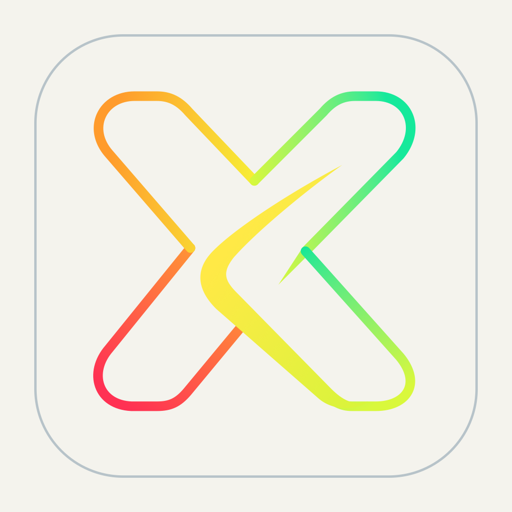
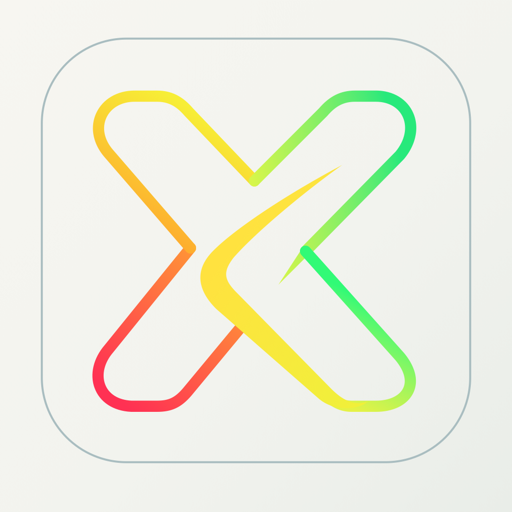
fix(brand): align progression X SVG with reference drafts

diff --git a/x-on-track-design/implementation.md b/x-on-track-design/implementation.md
@@ -4,6 +4,8 @@ The four unchanged supplied raster references are in `references/`. The SVG mast
 
 The canonical mark has five overlapping paths inside a 320 × 320 viewbox: four rounded outline segments and one filled, tapered diagonal sweep. The sweep is drawn last so its crossing remains continuous. The source drafts have small raster asymmetries, so this vector fixes one geometry for full, empty, partial, and unknown states. Gradients stay anchored to the full paths; only the progress mask's measured arc length changes. The generated static SVG adds a separate, subtle glow layer and border for large brand placements. Dynamic components omit that decorative glow to stay crisp at small sizes.
 
+The SVG master was refined against both standalone drafts. Its rounded frame now uses the references' inset and shorter height, the empty state has a neutral dimensional slate treatment, and the full state uses a warm lower-left border, localized green wash, brighter lower-right path, and separate soft and wide bloom layers. The path silhouette and center sweep stay identical in every state. `review/progression-x-full-comparison.png` and `review/progression-x-empty-comparison.png` place the source raster on the left and the generated SVG on the right at equal size. The original JPEGs contain photographic glow and texture, so their pixels cannot be reproduced exactly by scalable vector shapes; the canonical geometry and visually meaningful color relationships are preserved.
+
 `BrandMark` is static and fully lit. `ProgressTrackX` takes a single number or unknown value, a label, and an unknown label. It is used for completed/planned sets in live workout headers on iOS and web. Zero keeps the whole graphite track visible; unknown dims that track and uses explicit unknown text. Invalid non-finite input is unknown; finite out-of-range input is clamped to 0–100. The web component interpolates from its current rendered value on retargeting; the mobile component stops its running animation and continues from its stopped value. Reduced-motion settings skip interpolation. Corrections may decrease the value.
 
 The energy ring remains a conventional ring because calorie allowance is not a measure where “more is better.” No aggregate health score drives the static header mark. Live-workout progress uses actual completed sets divided by planned sets; no planned sets is unknown. The color spectrum describes distance along the logo's path, not health quality.
